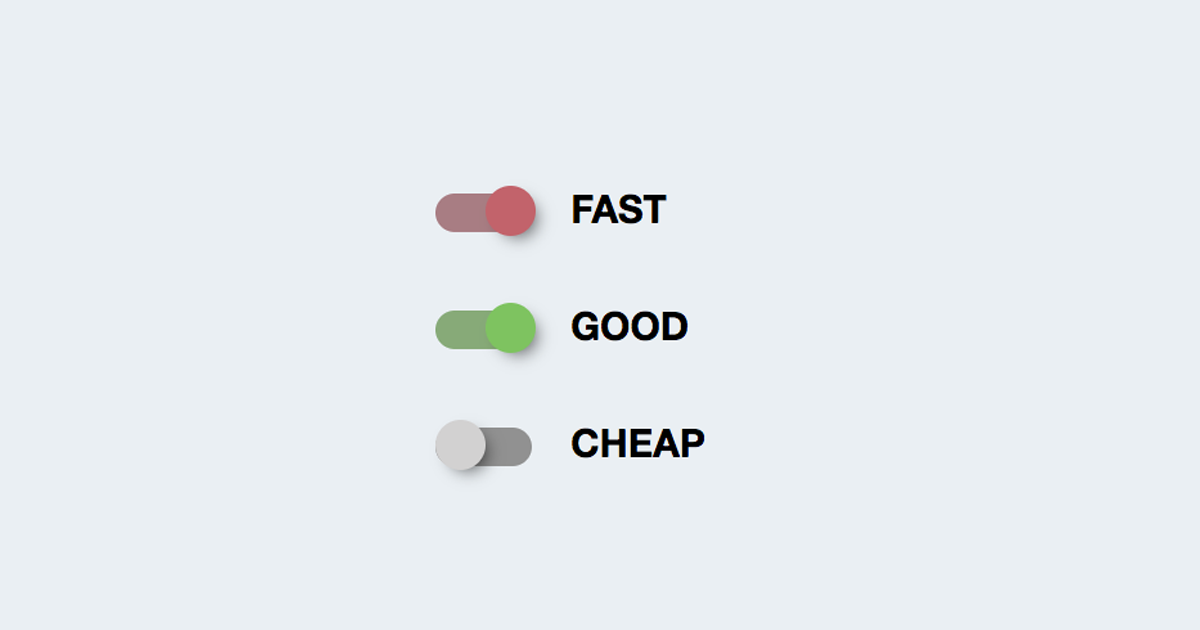
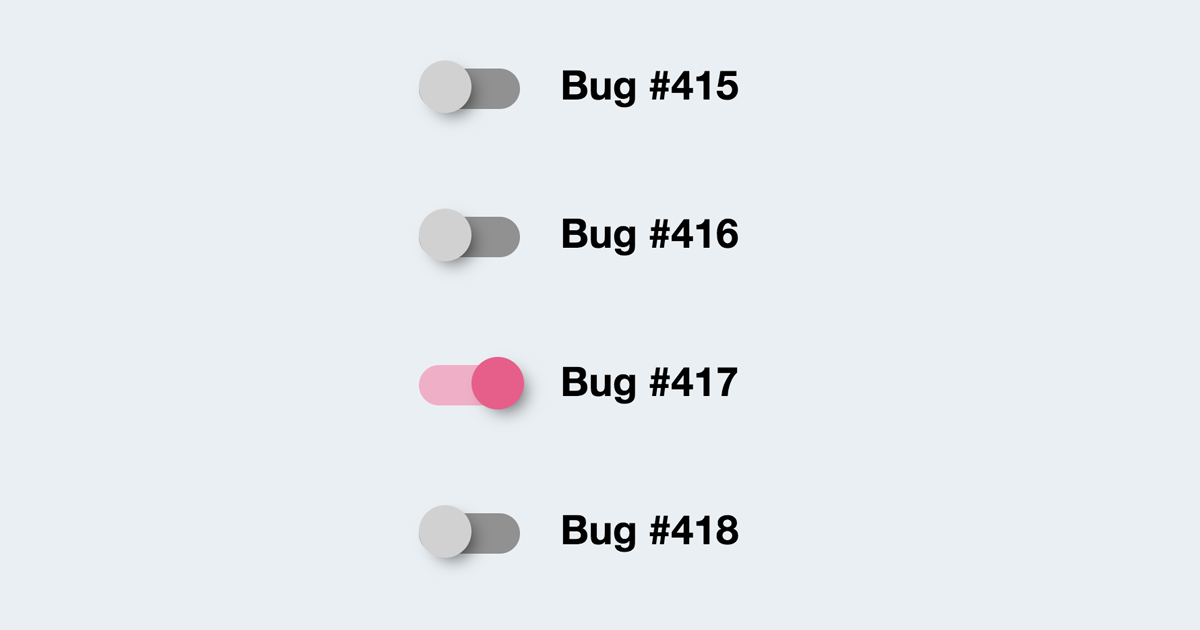
V1

diff --git a/index.html b/index.html
@@ -6,8 +6,8 @@
     <meta http-equiv="X-UA-Compatible" content="IE=edge">
     <meta name="viewport" content="width=device-width, initial-scale=1">
 
-    <title>Fast Good Cheap</title>
-    <meta name="description" content="You want a Fast, Good, and Cheap project?">
+    <title>Bug Repair</title>
+    <meta name="description" content="99 little bugs in the code. 99 little bugs in the code. Take one down, patch it around. 127 little bugs in the code...">
 
     <style>
       * {
@@ -46,55 +46,21 @@
 	opacity: 0;
       }
 
-      input[type="checkbox"]:checked + label.green:before {
-        background: #88a97a;
-      } 
-
-      input[type="checkbox"]:checked + label.green:after {
-        background: #80c265;
-        transform: translateX(100%);
-      }
-
-      input[type="checkbox"]:checked + label.blue:before {
-        background: #7b8aac;
-      }
-
-      input[type="checkbox"]:checked + label.blue:after {
-        background: #6583c5;
-        transform: translateX(100%);
-      }
-
       input[type="checkbox"]:checked + label.red:before {
-        background: #a77d83;
+        background: #efb0c7;
       }
 
       input[type="checkbox"]:checked + label.red:after {
-        background: #c0646c;
+        background: #e65f8b;
         transform: translateX(100%);
       }
 
-      input[type="checkbox"]:checked:focus + label.green:before {
-        background: #6d8f5f;
-      } 
-
-      input[type="checkbox"]:checked:focus + label.green:after {
-        background: #61a048;
-      }
-
-      input[type="checkbox"]:checked:focus + label.blue:before {
-        background: #58698d;
-      }
-
-      input[type="checkbox"]:checked:focus + label.blue:after {
-        background: #4d68a4;
-      }
-
       input[type="checkbox"]:checked:focus + label.red:before {
-        background: #84575e;
+        background: #e3a2ba;
       }
 
       input[type="checkbox"]:checked:focus + label.red:after {
-        background: #a14850;
+        background: #d8547f;
       }
 
       input[type="checkbox"] + label {
@@ -195,43 +161,52 @@
     <meta name="twitter:card" content="summary_large_image" />
     <meta name="twitter:site" content="@nannerb" />
     <meta name="twitter:creator" content="@nannerb" />
-    <meta name="twitter:title" content="Fast Good Cheap" />
-    <meta name="twitter:description" content="You want a Fast, Good, and Cheap project?" />
-    <meta name="twitter:url" content="http://fastgood.cheap" />
-    <meta name="twitter:image" content="http://fastgood.cheap/postcard.png" />
+    <meta name="twitter:title" content="Bug Repair" />
+    <meta name="twitter:description" content="99 little bugs in the code. 99 little bugs in the code. Take one down, patch it around. 127 little bugs in the code..." />
+    <meta name="twitter:url" content="http://bug.repair" />
+    <meta name="twitter:image" content="http://bug.repair/postcard.png" />
 
-    <meta property="og:url" content="http://fastgood.cheap" />
-    <meta property="og:image" content="http://fastgood.cheap/postcard.png" />
+    <meta property="og:url" content="http://bug.repair" />
+    <meta property="og:image" content="http://bug.repair/postcard.png" />
     <meta property="og:title" content="Fast Good Cheap" />
-    <meta property="og:description" content="You want a Fast, Good, and Cheap project?" />
+    <meta property="og:description" content="99 little bugs in the code. 99 little bugs in the code. Take one down, patch it around. 127 little bugs in the code..." />
 
-    <link rel="icon" type="image/png" href="http://fastgood.cheap/favicon-16x16.png" sizes="16x16">
-    <link rel="icon" type="image/png" href="http://fastgood.cheap/favicon-32x32.png" sizes="32x32">
-    <link rel="icon" type="image/png" href="http://fastgood.cheap/favicon-64x64.png" sizes="64x64">
+    <link rel="icon" type="image/png" href="http://bug.repair/favicon-16x16.png" sizes="16x16">
+    <link rel="icon" type="image/png" href="http://bug.repair/favicon-32x32.png" sizes="32x32">
+    <link rel="icon" type="image/png" href="http://bug.repair/favicon-64x64.png" sizes="64x64">
   </head>
 
 	<body>
     <div class="container">
-      <input type="checkbox" id="fast" >
-      <label class="red" for="fast">FAST</label>
+      <input type="checkbox" id="fbkuwr">
+      <label class="red" for="fbkuwr">Bug #415</label>
 
-      <input type="checkbox" id="good">
-      <label class="green" for="good">GOOD</label>
+      <input type="checkbox" id="qrvpqrv">
+      <label class="red" for="qrvpqrv">Bug #416</label>
 
-      <input type="checkbox" id="cheap">
-      <label class="blue" for="cheap">CHEAP</label>
+      <input type="checkbox" id="furvovq" checked="checked">
+      <label class="red" for="furvovq">Bug #417</label>
+
+      <input type="checkbox" id="eoutvwv">
+      <label class="red" for="eoutvwv">Bug #418</label>
+
+      <input type="checkbox" id="eofirvb">
+      <label class="red" for="eofirvb">Bug #419</label>
+
+      <input type="checkbox" id="qofvql">
+      <label class="red" for="qofvql">Bug #420</label>
     </div>
     <footer>
       <div class="share">
-				<a id="facebook" href="https://www.facebook.com/sharer/sharer.php?u=http://fastgood.cheap&amp;title=Fast Good Cheap" target="_blank">
+				<a id="facebook" href="https://www.facebook.com/sharer/sharer.php?u=http://bug.repair&amp;title=Bug Repair" target="_blank">
 					<svg viewBox="0 0 512 512"><path d="M211.9 197.4h-36.7v59.9h36.7V433.1h70.5V256.5h49.2l5.2-59.1h-54.4c0 0 0-22.1 0-33.7 0-13.9 2.8-19.5 16.3-19.5 10.9 0 38.2 0 38.2 0V82.9c0 0-40.2 0-48.8 0 -52.5 0-76.1 23.1-76.1 67.3C211.9 188.8 211.9 197.4 211.9 197.4z"></path></svg>
 				</a>
-				<a id="twitter" href="https://twitter.com/intent/tweet?url=http%3A%2F%2Ffastgood.cheap&amp;text=Fast Good Cheap" target="_blank">
+				<a id="twitter" href="https://twitter.com/intent/tweet?url=http%3A%2F%2Fbug.repair&amp;text=Bug Repair" target="_blank">
 					<svg viewBox="0 0 512 512"><path d="M419.6 168.6c-11.7 5.2-24.2 8.7-37.4 10.2 13.4-8.1 23.8-20.8 28.6-36 -12.6 7.5-26.5 12.9-41.3 15.8 -11.9-12.6-28.8-20.6-47.5-20.6 -42 0-72.9 39.2-63.4 79.9 -54.1-2.7-102.1-28.6-134.2-68 -17 29.2-8.8 67.5 20.1 86.9 -10.7-0.3-20.7-3.3-29.5-8.1 -0.7 30.2 20.9 58.4 52.2 64.6 -9.2 2.5-19.2 3.1-29.4 1.1 8.3 25.9 32.3 44.7 60.8 45.2 -27.4 21.4-61.8 31-96.4 27 28.8 18.5 63 29.2 99.8 29.2 120.8 0 189.1-102.1 185-193.6C399.9 193.1 410.9 181.7 419.6 168.6z"></path></svg>
 				</a>
 			</div>
       <div class="info">
-        By <a href="https://twitter.com/nannerb" target="_blank" title="@nannerb on Twitter">@nannerb</a>, inspired by this <a href="https://www.twitter.com/missingcloudltd/status/826203153934729218" target="_blank">tweet</a>
+        By <a href="https://twitter.com/nannerb" target="_blank" title="@nannerb on Twitter">@nannerb</a>, inspired by this <a href="https://giphy.com/gifs/loop-work-programmer-11ZSwQNWba4YF2" target="_blank">gif</a>
       </div>
     </footer>
     <script>
@@ -239,9 +214,15 @@
       [].forEach.call(document.querySelectorAll('input[type="checkbox"]'), function(checkbox) {
         checkbox.addEventListener('change', function(e) {
           ga('send', 'event', 'checkbox', 'trigger');
-          if ( checkbox.checked && checked.length === 2 ) {
-            var uncheckTarget = checked[Math.floor(Math.random() * checked.length)];
-            uncheckTarget.checked = false;
+          if (e.target.checked) {
+            e.target.checked = false;
+          } else if (checked.length < 3) {
+            var checkboxesToCheck = Math.floor(Math.random() * 2) + 1  ;
+            for (var index = 0; index < checkboxesToCheck; index++) {
+              var unchecked = document.querySelectorAll('input[type="checkbox"]:not(:checked)');
+              var checkTarget = unchecked[Math.floor(Math.random() * unchecked.length)];
+              checkTarget.checked = true;
+            }
           }
           checked = document.querySelectorAll('input[type="checkbox"]:checked');
         });
@@ -252,7 +233,7 @@
       m=s.getElementsByTagName(o)[0];a.async=1;a.src=g;m.parentNode.insertBefore(a,m)
       })(window,document,'script','https://www.google-analytics.com/analytics.js','ga');
 
-      ga('create', 'UA-91249744-1', 'auto');
+      ga('create', 'UA-103811586-1', 'auto');
       ga('send', 'pageview');
     </script>
 	</body>
